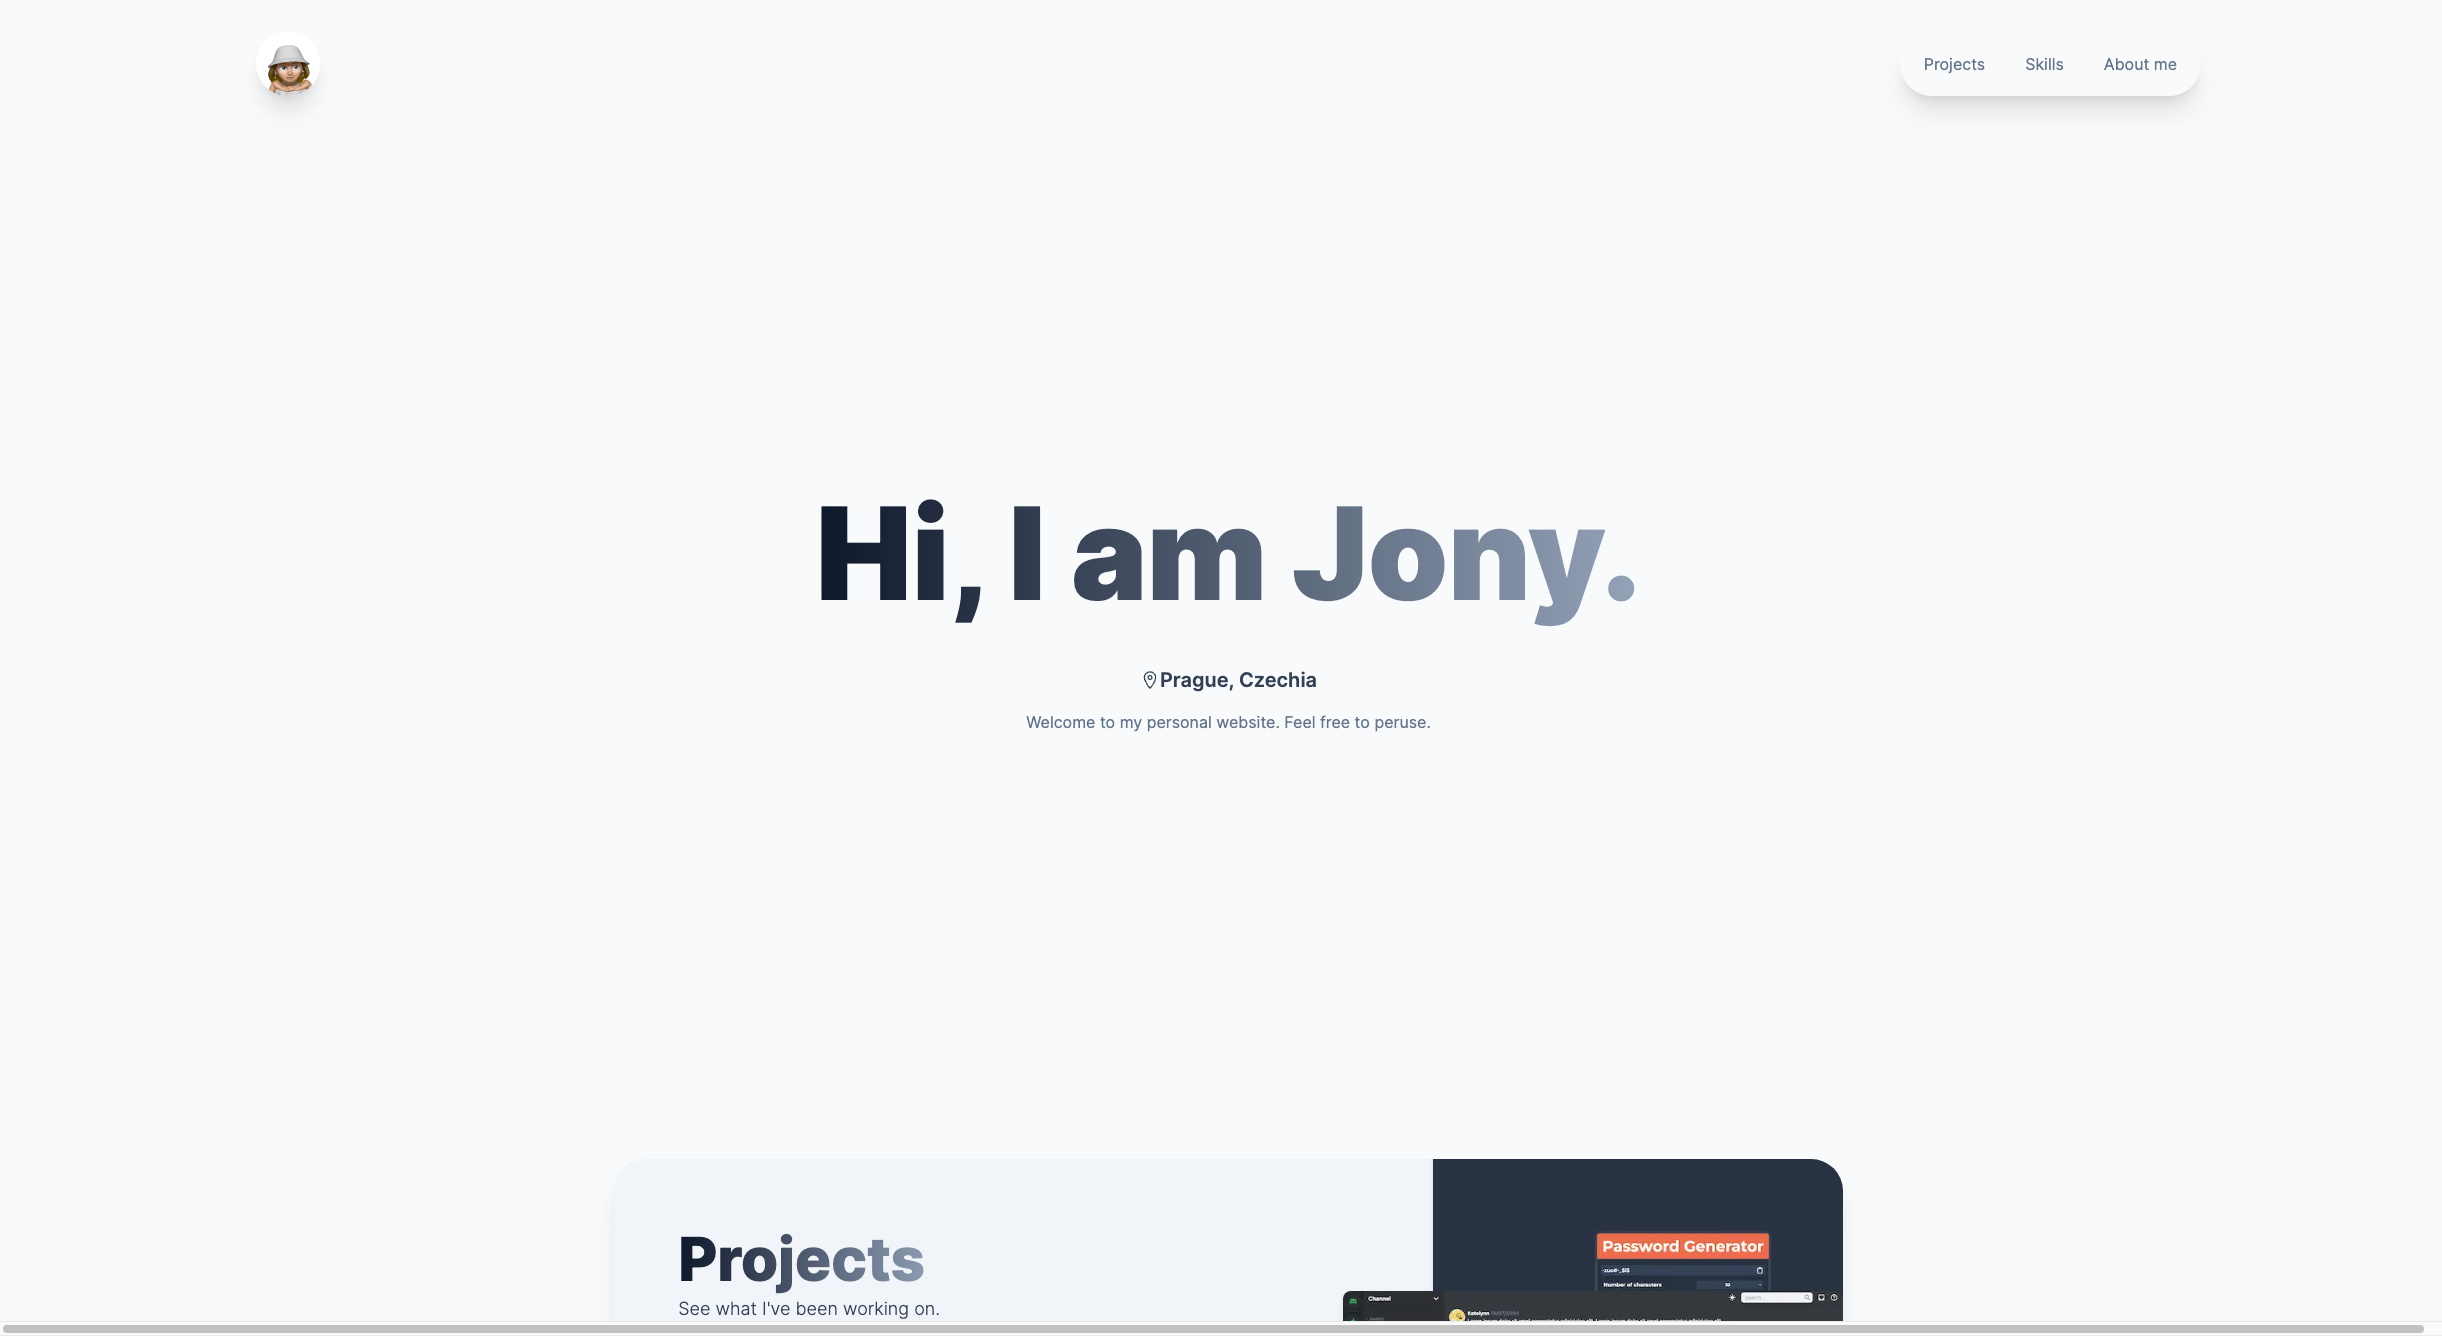
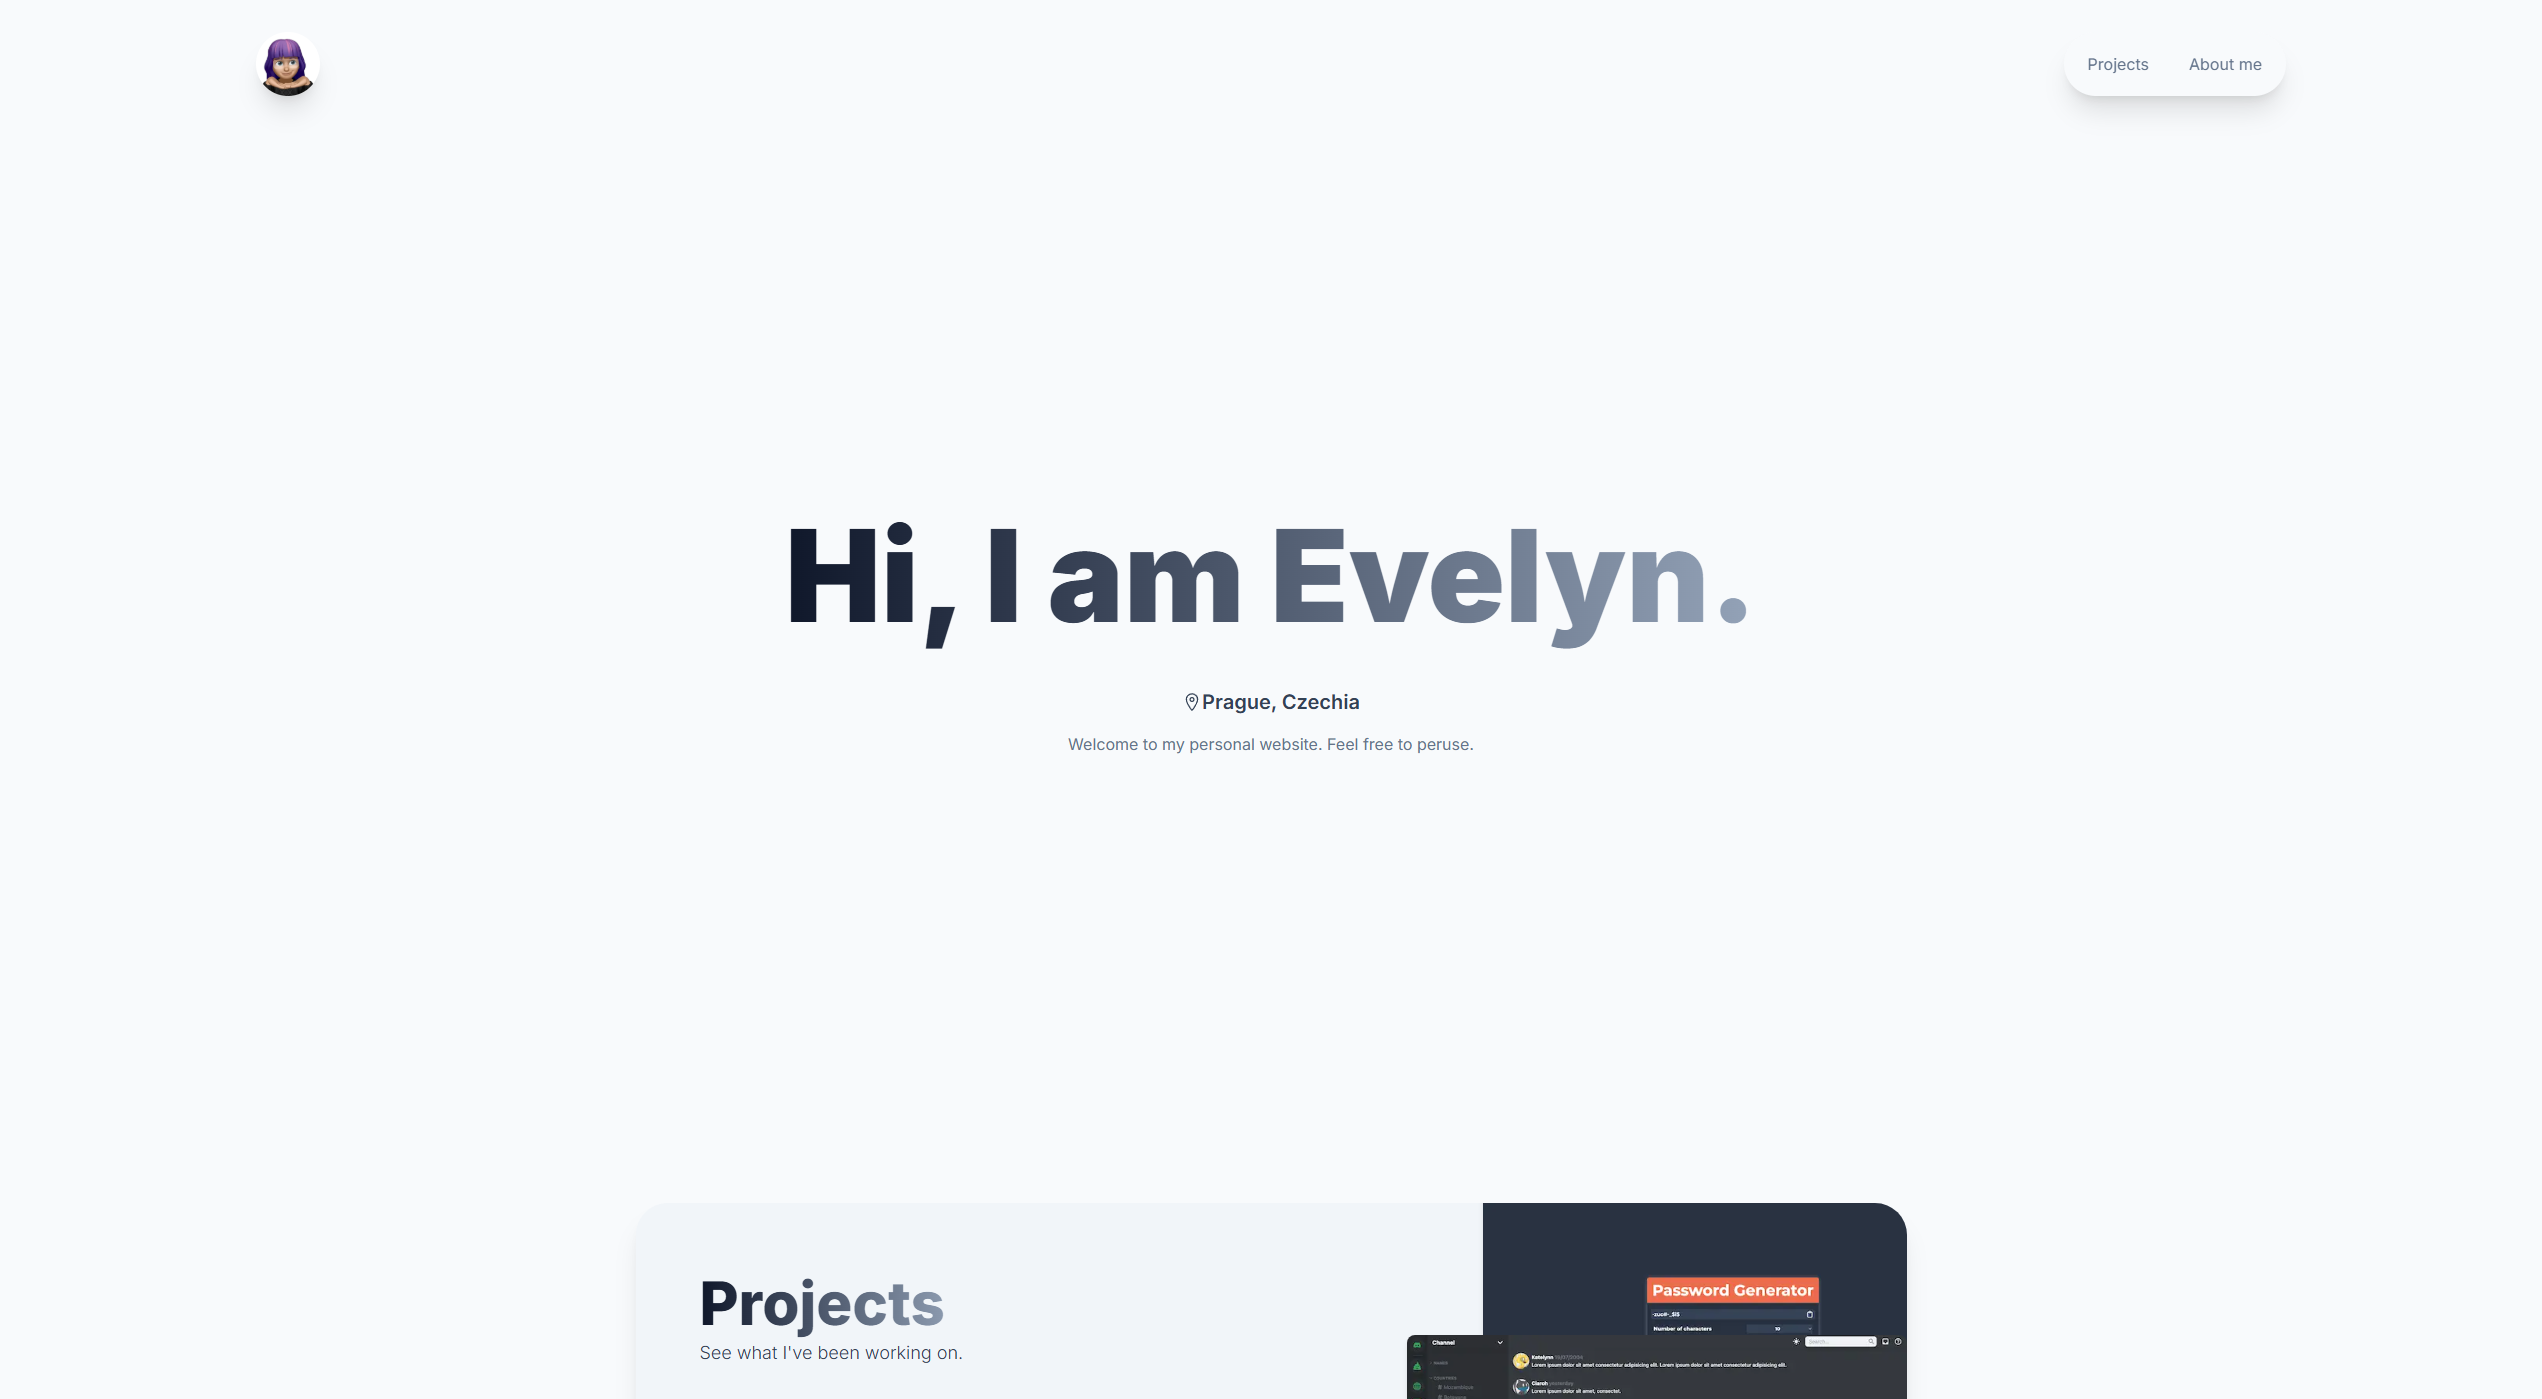
addded projects and changed photos

diff --git a/app/projects/page.js b/app/projects/page.js
@@ -53,6 +53,56 @@ export default function Projects() {
           github="https://github.com/yonysek/discord-clone"
           text="A Discord clone with implemented dark mode and animation from Framer Motion made using Next.js with TailwindCSS."
         />
+        <Project
+          name="Procedural terrain shader"
+          img="procedural_terrain.png"
+          github="https://github.com/artdukintsugi/44-procedural-terrain-shader"
+          url="https://procedural-terrain-shader.netlify.app/"
+          text="Procedural terrain shader made with Three.js."
+        />
+        <Project
+          name="Portal scene with R3F"
+          img="portalscene_r3f.png"
+          github="https://github.com/artdukintsugi/61-portal-scene-with-r3f"
+          url="https://portal-scene-with-r3f.netlify.app/"
+          text="Portal scene created in Blender with React Three Fiber."
+        />
+        <Project
+          name="Marble Race"
+          img="marble_race.png"
+          github="https://github.com/artdukintsugi/66-create-a-game-with-r3f"
+          url="https://marble-race-threejs.netlify.app/"
+          text="Simple game created with Three.js."
+        />
+        <Project
+          name="Portal scene"
+          img="portalscene.png"
+          github="https://github.com/artdukintsugi/portal-scene"
+          url="https://portal-scene-evelyn.netlify.app/"
+          text="Portal scene created in Blender with Three.js."
+        />
+        <Project
+          name="Earth shader"
+          img="earth.png"
+          github="https://github.com/artdukintsugi/38-earth-shaders-final"
+          url="https://earth-shaders-threejs.netlify.app/"
+          text="Earth shader created with Three.js."
+        />
+        <Project
+          name="Raging sea shaders"
+          img="raging_sea.png"
+          github="https://github.com/artdukintsugi/36-raging-sea-shading-shaders-final"
+          url="https://raging-sea-shading-shaders.netlify.app/"
+          text="Shaders created with Three.js."
+        />
+        <Project
+          name="Forkify"
+          img="forkify.png"
+          github="https://github.com/jonycorn/forkify-course-project"
+          url="https://forkify-yonas.netlify.app/"
+          text="Recipe app created with JavaScript."
+        />
+
         <h1 className="z-10 px-4 py-2 my-24 text-2xl font-black leading-normal text-center border-2 shadow-lg opacity-50 rounded-xl bg- border-slate-400 gradient lg:text-5xl sm:text-3xl md:text-4xl bg-slate-50">
           MORE COMING!
         </h1>

diff --git a/app/about/page.js b/app/about/page.js
@@ -51,9 +51,11 @@ export default function About() {
           <div className="relative overflow-hidden rounded-full w-36 sm:w-44 md:w-64 aspect-square">
             <Image
               sizes="200px"
+              width="300"
+              height="300"
               alt="photo of me again"
-              src="/me_2.jpeg"
-              fill
+              src="/me2.jpg"
+              className="object-bottom"
             />
           </div>
           <div className="flex flex-col items-start w-full h-full justify-evenly">

diff --git a/components/AboutMe.js b/components/AboutMe.js
@@ -12,7 +12,7 @@ export default function AboutMe() {
     >
       <div className="absolute rounded-[2rem] h-2/3 lg:h-full w-full lg:w-2/3 -bottom-12  lg:-right-48 lg:top-0 overflow-hidden ">
         <Image
-          src="/me.jpeg"
+          src="/me.jpg"
           alt="photo of me"
           fill
           className="object-cover transition-all duration-200 group-hover:scale-105"
